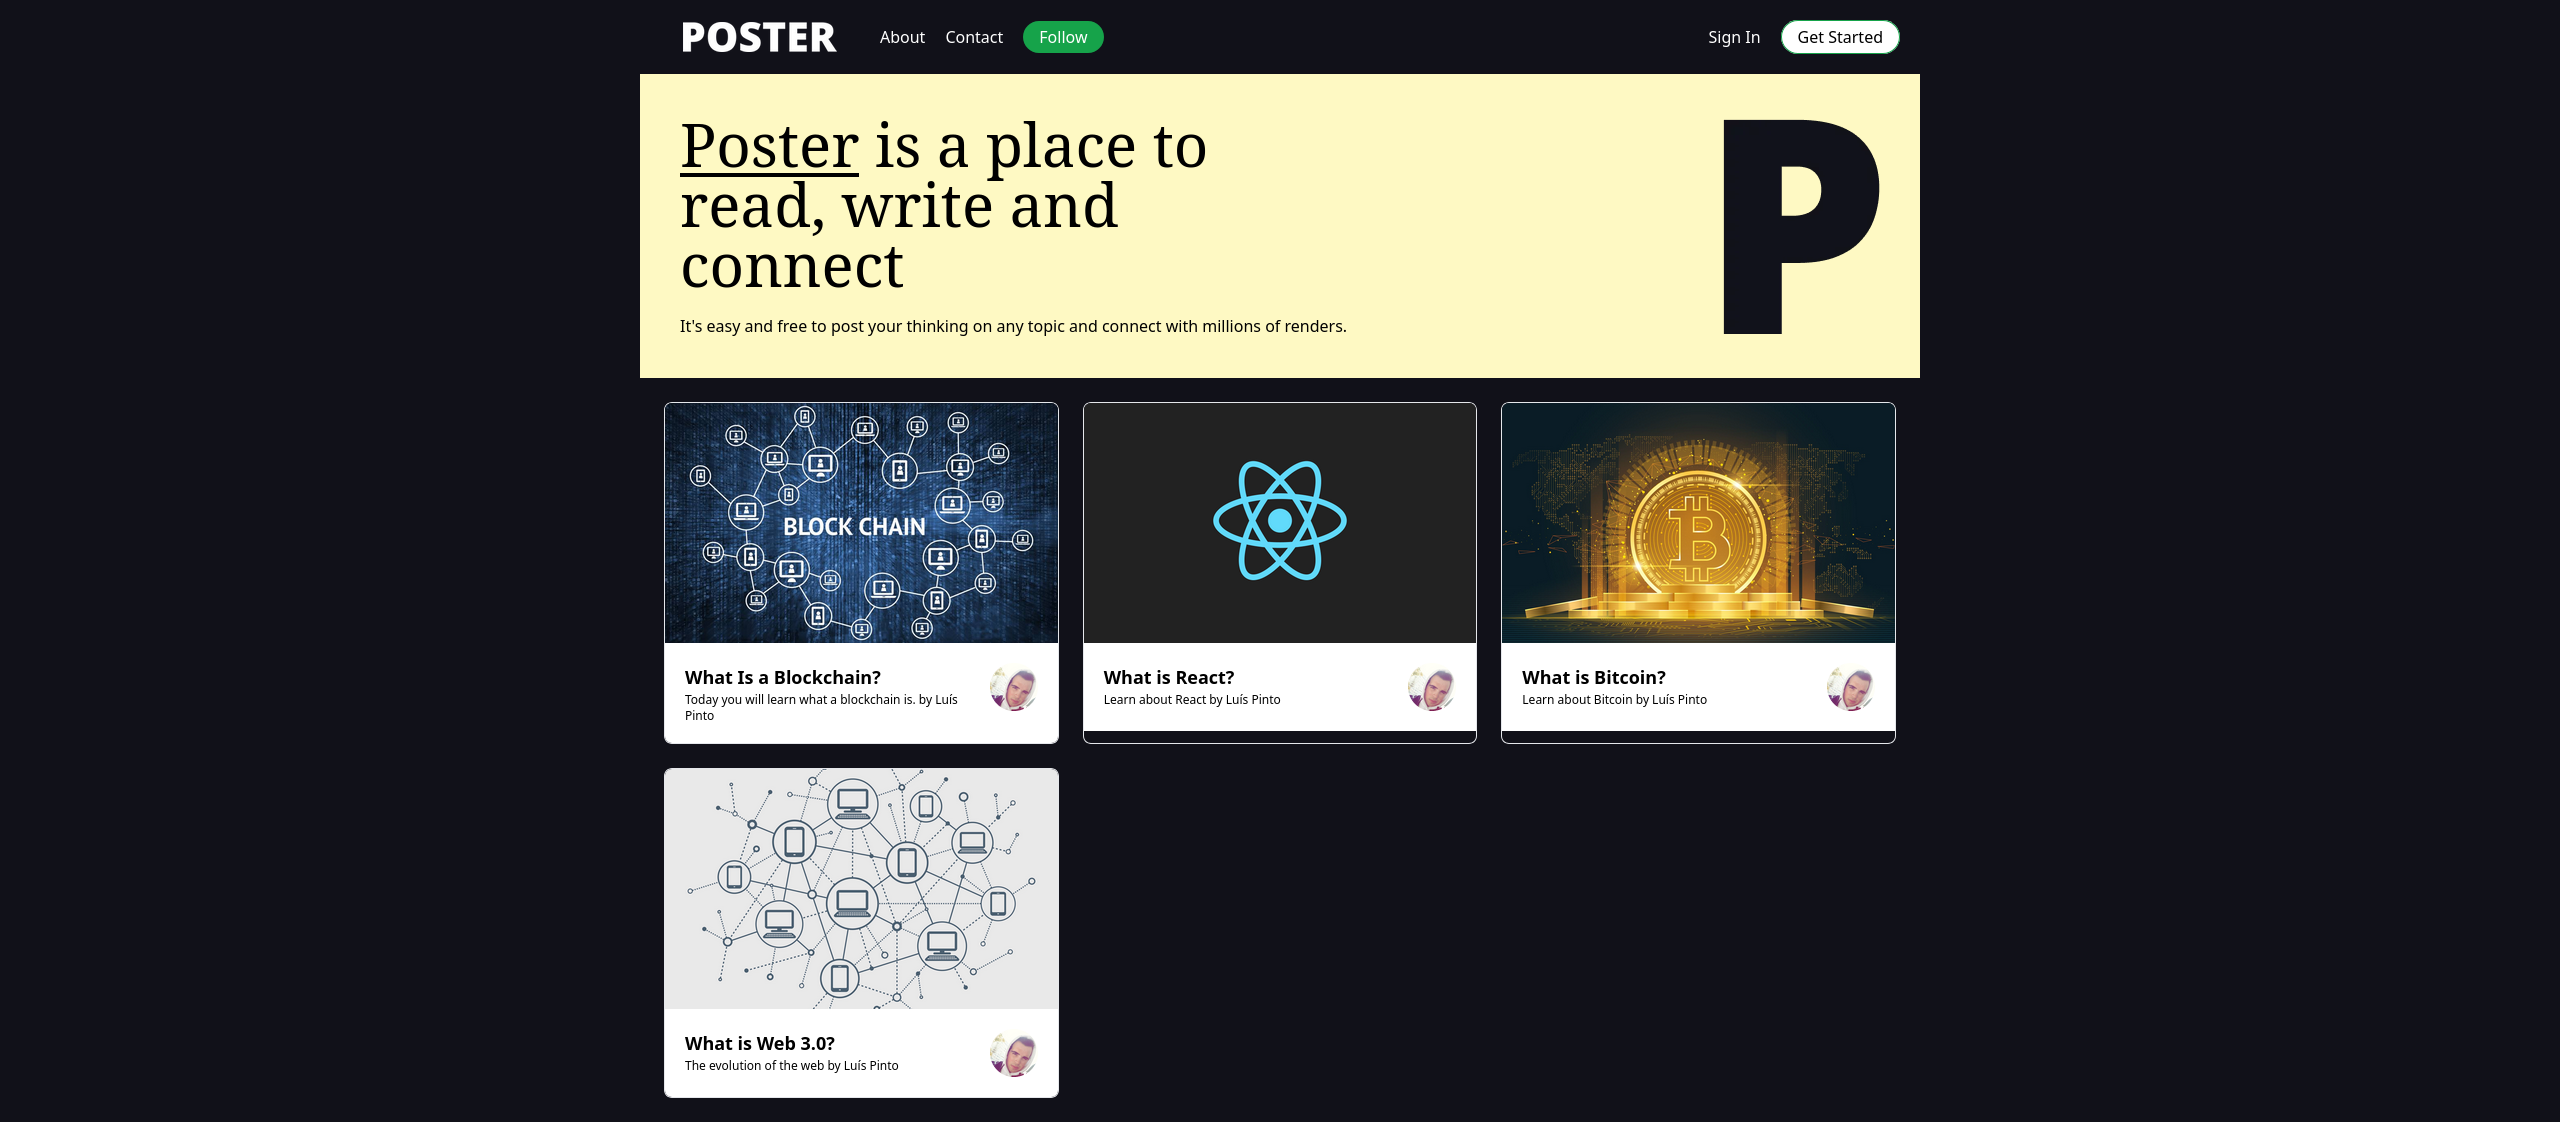
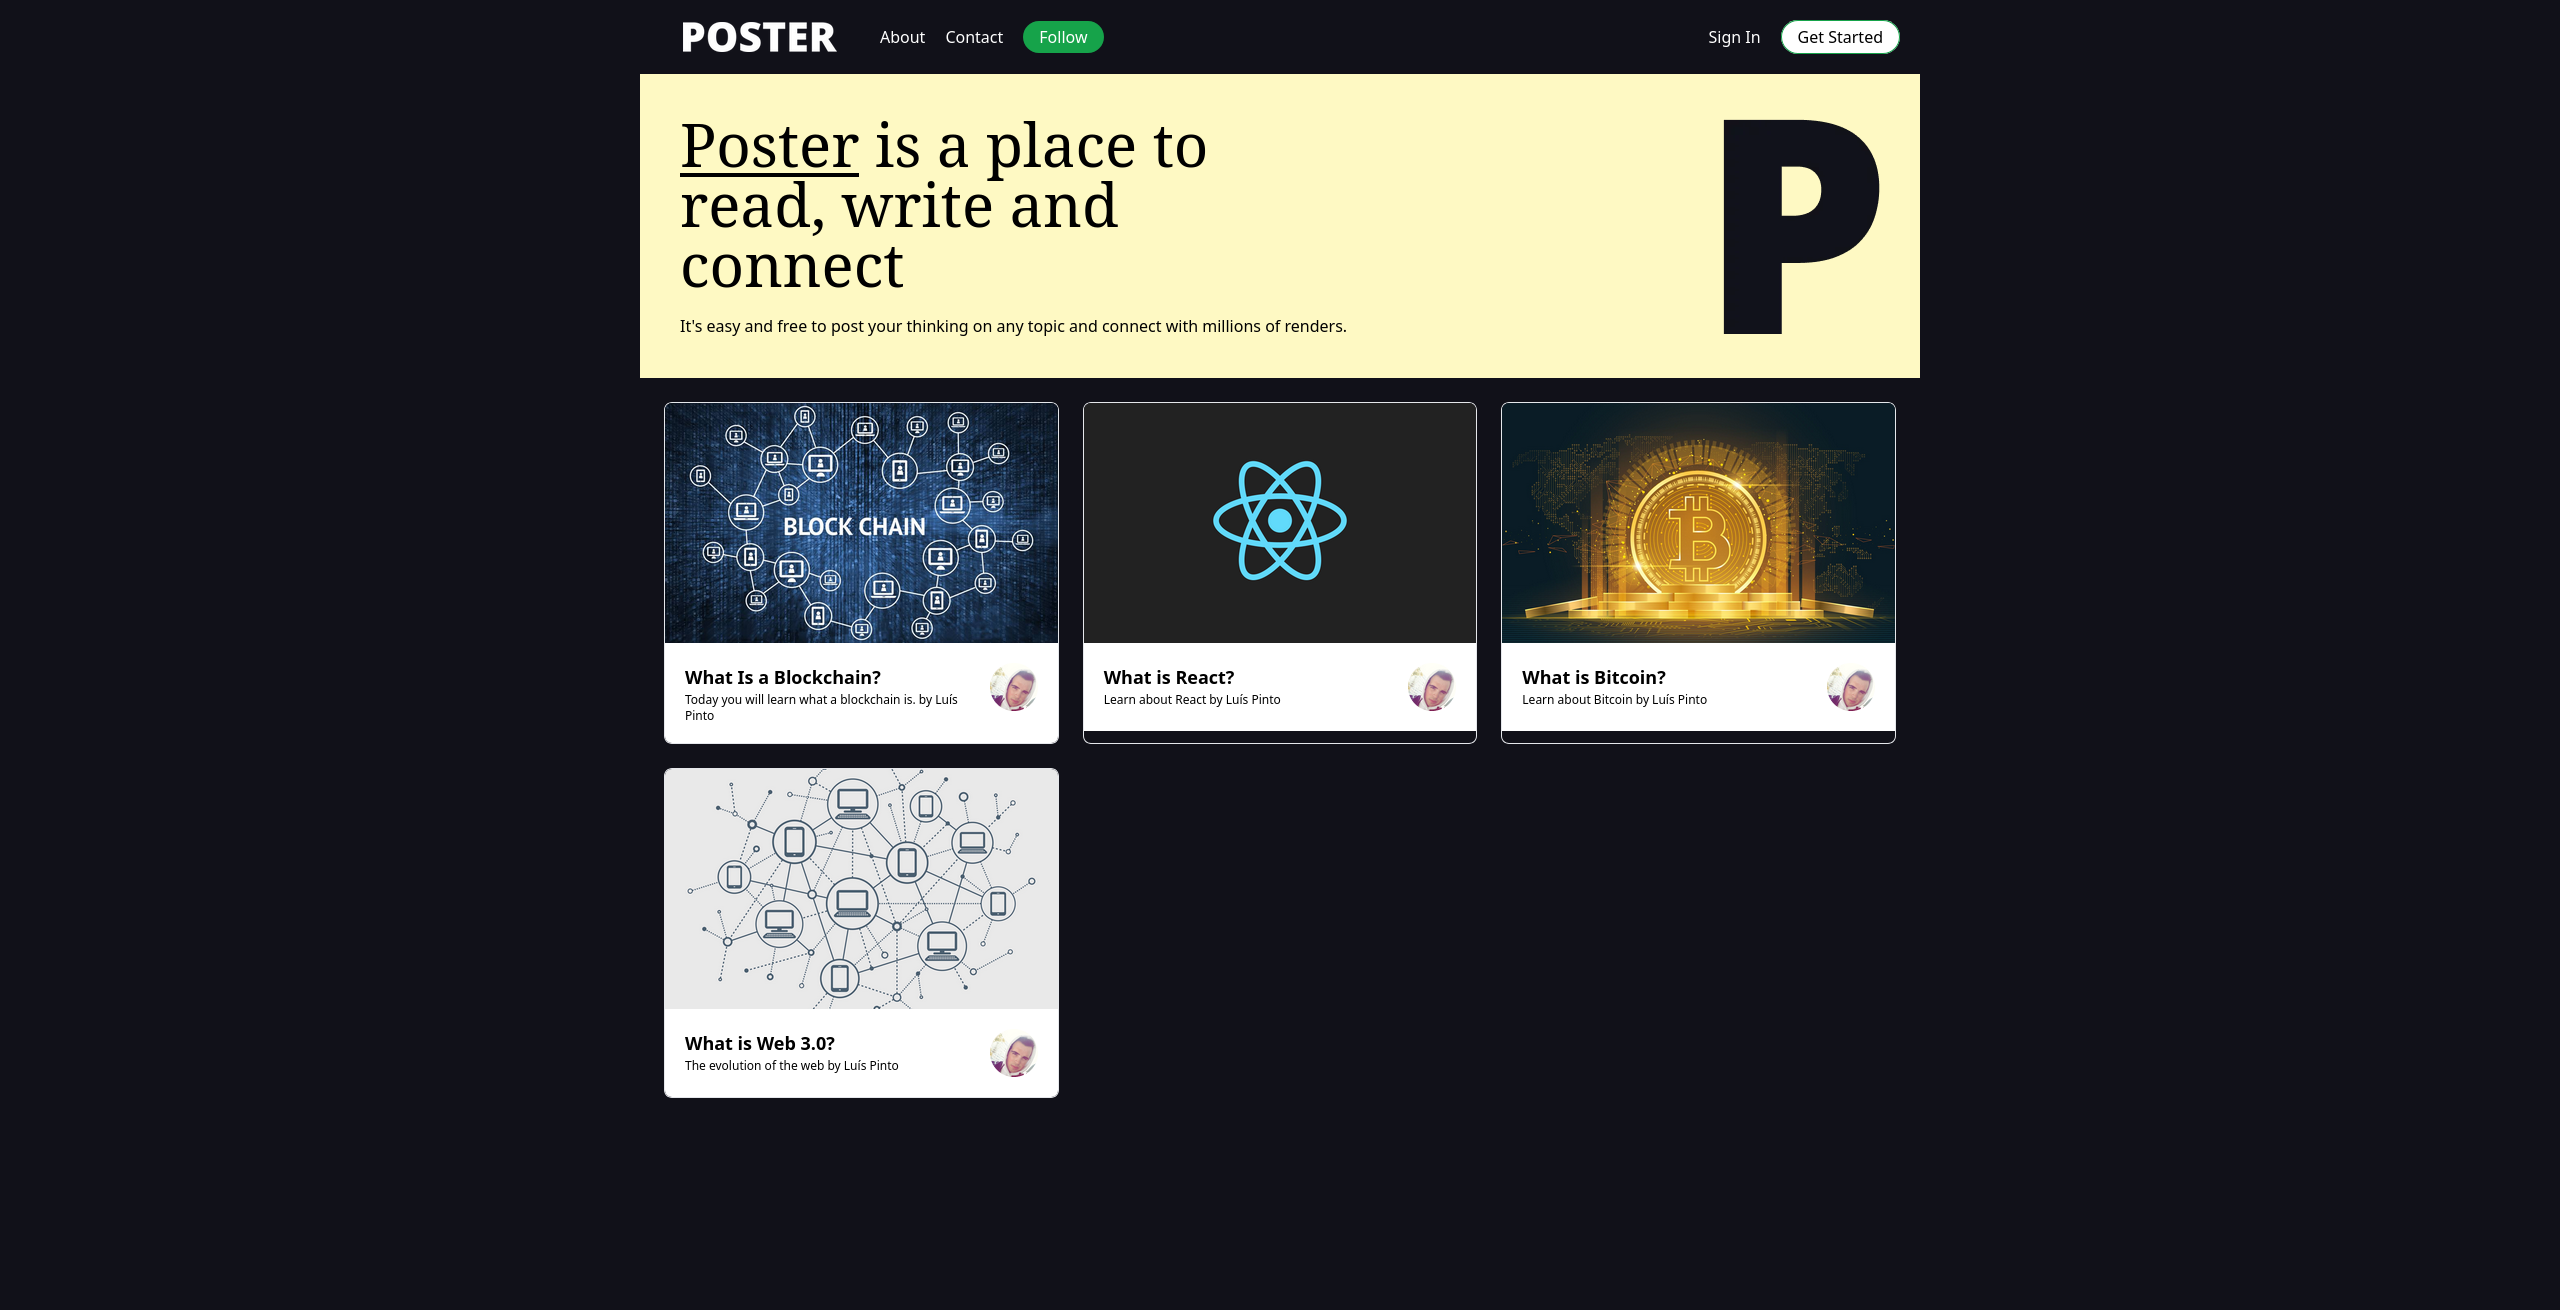
added links to projects, added scroll snap, added acessibility to links, added projects link to projects section

Changed region(s): [[0.25, 0.0, 0.75, 0.9982]]

diff --git a/app/components/project.tsx b/app/components/project.tsx
@@ -12,7 +12,7 @@ export const Project = ({ project }: Props) => {
   const { name, link, description, image, tech, code } = project;
 
   return (
-    <article className='w-full  flex flex-col gap-2 rounded-lg overflow-hidden border-white/50 border-2 '>
+    <article className='w-full h-fit  flex flex-col gap-2 rounded-lg overflow-hidden border-white/50 border-2 '>
       <section className='w-full min-h-[250px] max-h-[340px]'>
         <Image
           src={require(`../assets/projects/${project.id}/${image}`).default}
@@ -23,16 +23,15 @@ export const Project = ({ project }: Props) => {
         />
       </section>
 
-      <section className='w-full flex flex-col gap-3 px-2 py-1'>
+      <section className='w-full flex flex-col gap-3 px-4 pt-3 pb-4'>
         <header
           className='
-    
       max-h-[70px]
       flex
       justify-between
       '
         >
-          <h1 className='text-2xl font-normal'>{name}</h1>
+          <h1 className='text-2xl font-bold'>{name}</h1>
           <Link
             target='_blank'
             referrerPolicy='no-referrer'
@@ -43,22 +42,24 @@ export const Project = ({ project }: Props) => {
             <BiLinkExternal fontSize={16} />
           </Link>
         </header>
-        <section className='w-full flex gap-3 overflow-y-auto'>
+        <section className='w-full flex gap-3 overflow-y-auto pt-1'>
           {tech.map((t) => {
             const asset = getTechAsset(t);
             return (
               <article key={t}>
                 <Image
-                  width={25}
-                  height={25}
+                  width={35}
+                  height={35}
                   src={require(`../assets/tech/${asset}`)?.default}
-                  alt='hero'
+                  alt={t}
                 />
               </article>
             );
           })}
         </section>
-        <p className='text-sm tracking-widest font-extralight'>{description}</p>
+        <p className='text-sm tracking-widest font-extralight min-h-[50px]'>
+          {description}
+        </p>
         <Link
           target='_blank'
           referrerPolicy='no-referrer'
@@ -66,7 +67,7 @@ export const Project = ({ project }: Props) => {
           className='flex items-center gap-2'
         >
           <AiFillGithub fontSize={28} />
-          <span>code</span>
+          <span>Link</span>
         </Link>
       </section>
     </article>

diff --git a/app/components/sections/projects.tsx b/app/components/sections/projects.tsx
@@ -7,7 +7,10 @@ type Props = {
 
 export const Projects = ({ projects }: Props) => {
   return (
-    <section className='min-h-screen w-full flex flex-col  mt-[80px] pt-36 relative  gap-12 px-12 '>
+    <section
+      id='projects'
+      className='min-h-screen max-w-screen-xl mx-auto w-full flex flex-col  mt-[80px] pt-32 relative  gap-12  snap-center '
+    >
       <h1 className='relative font-bold uppercase tracking-[10px] lg:tracking-[6px] text-center text-[--secondary] text-3xl lg:text-4xl'>
         Projects
       </h1>
@@ -17,8 +20,11 @@ export const Projects = ({ projects }: Props) => {
       grid-cols-1
       lg:grid-cols-2
       xl:grid-cols-3
-      
-      2xl:grid-cols-4
+      overflow-scroll
+      auto-rows-min
+      relative
+      max-h-[70vh]
+      2xl:grid-cols-3
       gap-7
 
       '

diff --git a/app/components/menu.tsx b/app/components/menu.tsx
@@ -4,20 +4,20 @@ type Props = {};
 
 export default function Menu(props: Props) {
   return (
-    <section className='mt-2 flex gap-4 flex-wrap justify-center'>
+    <section className='mt-4 flex gap-4 flex-wrap justify-center'>
       <Link className='heroButton' href='#about'>
         About
       </Link>
       <Link className='heroButton' href='#skills'>
         Skills
       </Link>
-      <Link className='heroButton' href='/'>
+      <Link className='heroButton' href='#projects'>
         Projects
       </Link>
-      <Link className='heroButton' href='/'>
+      <Link className='heroButton' href='#experience'>
         Experience
       </Link>
-      <Link className='heroButton' href='/'>
+      <Link className='heroButton' href='#documents'>
         Documents
       </Link>
     </section>

diff --git a/app/components/navbar.tsx b/app/components/navbar.tsx
@@ -7,7 +7,7 @@ import { AiFillLinkedin, AiFillGithub, AiFillMail } from "react-icons/ai";
 
 export default function Navbar(props: Props) {
   return (
-    <nav className='fixed w-full top-0 min-h-[80px] flex items-center justify-between  z-20 xl:items-center px-12 overflow-hidden'>
+    <nav className='fixed w-full top-0 min-h-[80px] flex items-center justify-between  z-20 xl:items-center px-12 overflow-hidden bg-[--primary]'>
       <span className='flex justify-between max-w-screen-xl m-auto w-full overflow-hidden'>
         <motion.div
           initial={{

diff --git a/app/page.tsx b/app/page.tsx
@@ -6,11 +6,10 @@ export default function Home() {
   const projects = getProjects();
   return (
     <main
-      className='h-screen snap-y snap-mandatory 
-      overflow-x-auto
+      className='h-screen snap-y snap-mandatory overflow-x-auto scroll-smooth
   '
     >
-      {/* <HeroSection /> */}
+      <HeroSection />
       <Projects projects={projects} />
     </main>
   );

diff --git a/app/components/sections/hero.tsx b/app/components/sections/hero.tsx
@@ -6,6 +6,7 @@ export default function HeroSection(props: Props) {
   return (
     <div
       className='relative min-h-screen 
+      snap-center
       overflow-hidden
     flex  space-y-8 items-center justify-center text-center 
     
